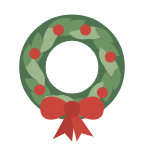
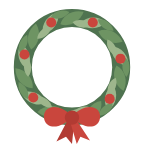
Holy-day art behind the date, simpler profile, clearer study invitations
- Calendar: the Christmas wreath now rings the date; other holy-day drawings
  sit softly behind the number instead of above it.
- Profile: shows what the person told us (name, tradition, language, Bible,
  location) with one Edit button. My calendar and My testimonies move to the
  Your space menu; the duplicated links are gone.
- Bible study: "A small response", "In everyday life" and "A question to
  carry" are small invitation cards, distinct from the explanation text.

Claude-Session: https://claude.ai/code/session_01C4JP6D8xy5aA4aRoq7rax6

diff --git a/mobile/src/app/profile.tsx b/mobile/src/app/profile.tsx
@@ -1,9 +1,9 @@
-import { friendCopy } from "../lib/friends-copy";
-import { AccountMenuRow } from "../components/AccountMenuContent";
+import { avatarColor, initial } from "../lib/people-theme";
+import { q } from "../lib/quiet-copy";
 import Disclosure from "../components/Disclosure";
 import { useInterfaceCopy } from "../lib/use-interface-copy";
 import { useEffect, useState } from "react";
-import { Platform } from "react-native";
+import { Platform, StyleSheet, Text, View } from "react-native";
 import { router } from "expo-router";
 import * as Sharing from "expo-sharing";
 import {
@@ -16,11 +16,13 @@ import {
   Field,
   Notice,
   External,
+  colors,
+  serif,
 } from "../components/quiet-ui";
 import SignInForm from "../components/SignInForm";
 import { useQuiet } from "../lib/quiet-state";
 import { useApp } from "../lib/state";
-import { copy } from "../lib/content";
+import { copy, editionsFor, languages } from "../lib/content";
 import { label } from "../lib/labels";
 import { backend, requireUser, requireBackend } from "../lib/backend";
 import * as storage from "../lib/storage";
@@ -89,35 +91,62 @@ export default function Profile() {
     if (error) throw error;
     setNotice(l("synced"));
   }
+  // What the person told us when they first arrived, and nothing else.
+  const place = [profile.city, profile.region].filter(Boolean).join(", ");
+  const faith = profile.faithChoice;
+  const facts: [string, string][] = [
+    [
+      tr("Tradition"),
+      faith === "catholic" || faith === "protestant" || faith === "orthodox"
+        ? t(faith)
+        : faith === "exploring"
+          ? q(profile.language, "exploring")
+          : "",
+    ],
+    [tr("Your language"), languages[profile.language]],
+    [
+      tr("Your Bible"),
+      editionsFor(profile).find((e) => e.id === profile.edition)?.name ?? "",
+    ],
+    [tr("Location"), place],
+    ...(profile.email
+      ? [[t("pEmail"), profile.email] as [string, string]]
+      : []),
+  ];
   return (
     <Screen back>
       <Heading>{tr("Profile")}</Heading>
       <Notice text={notice} />
-      <AccountMenuRow
-        title={tr("Edit profile and preferences")}
-        route="/preferences"
-        icon="create-outline"
-      />
-      <AccountMenuRow
-        title={tr("My testimonies")}
-        route="/testimonies"
-        icon="chatbubble-outline"
-      />
-      <AccountMenuRow
-        title={tr("Pay it forward")}
-        route="/giving"
-        icon="heart-outline"
-      />
-      <AccountMenuRow
-        title={tr("My calendar")}
-        route="/my-calendar"
-        icon="calendar-outline"
-      />
-      <AccountMenuRow
-        title={friendCopy(profile.language, "Your people")}
-        route="/friends"
-        icon="people-outline"
-      />
+      <Card>
+        <View style={s.who}>
+          <View
+            accessible={false}
+            style={[
+              s.avatar,
+              { backgroundColor: avatarColor(profile.name || "·") },
+            ]}
+          >
+            <Text style={s.initial}>{initial(profile.name)}</Text>
+          </View>
+          <View style={{ flex: 1, gap: 3 }}>
+            <Text style={s.name}>{profile.name.trim() || tr("Friend")}</Text>
+            {!!place && <Text style={s.place}>{place}</Text>}
+          </View>
+        </View>
+        <View style={s.facts}>
+          {facts.map(([title, value]) => (
+            <View key={title} style={s.fact}>
+              <Text style={s.factTitle}>{title}</Text>
+              <Text style={s.factValue}>{value || tr("Not added yet")}</Text>
+            </View>
+          ))}
+        </View>
+        <Button
+          secondary
+          title={tr("Edit")}
+          onPress={() => router.push("/preferences")}
+        />
+      </Card>
       <Disclosure title={l("account")} initiallyOpen={!signedIn}>
         <Card>
           <Subheading>{signedIn ? l("welcomeBack") : l("signIn")}</Subheading>
@@ -303,3 +332,34 @@ export default function Profile() {
     </Screen>
   );
 }
+const s = StyleSheet.create({
+  who: { flexDirection: "row", alignItems: "center", gap: 14 },
+  avatar: {
+    width: 56,
+    height: 56,
+    borderRadius: 28,
+    alignItems: "center",
+    justifyContent: "center",
+  },
+  initial: { fontFamily: serif, fontSize: 24, color: colors.ink },
+  name: { fontFamily: serif, fontSize: 24, lineHeight: 30, color: colors.ink },
+  place: { fontSize: 14, lineHeight: 20, color: colors.cardMuted },
+  facts: { borderTopWidth: 1, borderTopColor: colors.line },
+  fact: {
+    flexDirection: "row",
+    justifyContent: "space-between",
+    alignItems: "baseline",
+    gap: 16,
+    paddingVertical: 11,
+    borderBottomWidth: 1,
+    borderBottomColor: colors.line,
+  },
+  factTitle: { fontSize: 14, lineHeight: 20, color: colors.cardMuted },
+  factValue: {
+    flex: 1,
+    textAlign: "right",
+    fontSize: 15,
+    lineHeight: 21,
+    color: colors.ink,
+  },
+});

diff --git a/mobile/src/app/verse/[id].tsx b/mobile/src/app/verse/[id].tsx
@@ -63,6 +63,29 @@ function Section({
     </View>
   );
 }
+// A suggestion for the reader, not part of the explanation: a small card with
+// its own label, so it reads as "your turn" rather than more commentary.
+function Invitation({
+  title,
+  children,
+}: {
+  title: string;
+  children: React.ReactNode;
+}) {
+  return (
+    <View style={s.invitation}>
+      <View style={s.invitationHead}>
+        <Ionicons name="leaf-outline" size={15} color={colors.goldInk} />
+        <Text accessibilityRole="header" style={s.invitationLabel}>
+          {title}
+        </Text>
+      </View>
+      <Text selectable style={s.invitationText}>
+        {children}
+      </Text>
+    </View>
+  );
+}
 export default function VerseStudy() {
   // "journal" is the theme verse reference a saved journal entry passes along.
   const { id, journal } = useLocalSearchParams<{
@@ -382,12 +405,12 @@ function StudyPage({ id, journal }: { id: string; journal?: string }) {
                       {verse.context[lang] ?? verse.context.en}
                     </Paragraph>
                   )}
-                  <Section title={tr("A small response")} tint>
+                  <Invitation title={tr("A small response")}>
                     {explanation?.today ??
                       tr(
                         "Choose one word or image that stays with you. Give it a little attention before deciding what it means for your own life.",
                       )}
-                  </Section>
+                  </Invitation>
                 </>
               ) : layer === "deeper" ? (
                 <>
@@ -406,12 +429,12 @@ function StudyPage({ id, journal }: { id: string; journal?: string }) {
                         "Look for repeated words, contrasts and changes of speaker. Read a difficult line in the flow of the whole passage before deciding what it means. These are reading questions, not a completed commentary on this verse.",
                       )}
                   </Section>
-                  <Section title={tr("In everyday life")}>
+                  <Invitation title={tr("In everyday life")}>
                     {explanation?.today ??
                       tr(
                         "What response might fit the passage as a whole? Notice the difference between what the text says and a personal association it brings to mind. You can hold a question without needing an immediate answer.",
                       )}
-                  </Section>
+                  </Invitation>
                 </>
               ) : layer === "theology" ? (
                 <>
@@ -430,9 +453,9 @@ function StudyPage({ id, journal }: { id: string; journal?: string }) {
                     .map((paragraph, i) => (
                       <Paragraph key={i}>{paragraph}</Paragraph>
                     ))}
-                  <Section title={tr("A question to carry")} tint>
+                  <Invitation title={tr("A question to carry")}>
                     {question}
-                  </Section>
+                  </Invitation>
                 </>
               ) : null}
               <Body small>
@@ -661,4 +684,25 @@ const s = StyleSheet.create({
   },
   prose: { fontFamily: serif, fontSize: 20, lineHeight: 33, color: colors.ink },
   callout: { padding: 22, borderRadius: 21, backgroundColor: colors.pale },
+  invitation: {
+    gap: 8,
+    paddingVertical: 14,
+    paddingHorizontal: 16,
+    borderRadius: 16,
+    backgroundColor: colors.white,
+    borderWidth: 1,
+    borderColor: "#B28A3E66",
+    borderLeftWidth: 3,
+    borderLeftColor: colors.gold,
+  },
+  invitationHead: { flexDirection: "row", alignItems: "center", gap: 7 },
+  invitationLabel: {
+    fontSize: 12,
+    lineHeight: 16,
+    fontWeight: "700",
+    letterSpacing: 1.1,
+    textTransform: "uppercase",
+    color: colors.goldInk,
+  },
+  invitationText: { fontSize: 16, lineHeight: 24, color: colors.ink },
 });

diff --git a/mobile/src/components/GatheringCalendar.tsx b/mobile/src/components/GatheringCalendar.tsx
@@ -19,19 +19,26 @@ function HolyDayMark({
   id,
   size,
   opacity = 1,
+  soft = false,
 }: {
   id: HolyDayId;
   size: number;
   opacity?: number;
+  // Slightly out of focus, for sitting behind a date.
+  soft?: boolean;
 }) {
   return (
     <Image
       source={holyDayImages[holyDayArt[id]]}
       accessible={false}
+      blurRadius={soft ? 1 : 0}
       style={{ width: size, height: size, opacity }}
     />
   );
 }
+// A ring leaves its middle open, so the date reads clearly inside it at full
+// strength. Every other drawing sits faded behind the date.
+const isRing = (id: HolyDayId) => holyDayArt[id] === "wreath";
 export default function GatheringCalendar({
   gatherings,
   selected,
@@ -138,8 +145,7 @@ export default function GatheringCalendar({
                   minHeight: 48,
                   alignItems: "center",
                   justifyContent: "center",
-                  gap: 1,
-                  paddingVertical: 2,
+                  gap: 2,
                   borderRadius: 14,
                   backgroundColor: on
                     ? colors.green
@@ -150,32 +156,46 @@ export default function GatheringCalendar({
                   borderColor: colors.gold,
                 }}
               >
-                {/* Every cell keeps this slot, so the numbers stay in line. */}
+                {/* The date, with the day's drawing behind it. */}
                 <View
-                  accessible={false}
-                  style={{ height: 25, justifyContent: "center" }}
-                >
-                  {!!feasts.length && (
-                    <HolyDayMark
-                      id={feasts[0].id}
-                      size={25}
-                      opacity={past && !on ? 0.6 : 1}
-                    />
-                  )}
-                </View>
-                <Text
                   style={{
-                    fontSize: 15,
-                    fontWeight: isToday ? "700" : "500",
-                    color: on
-                      ? colors.white
-                      : past && !has
-                        ? colors.muted
-                        : colors.ink,
+                    width: 34,
+                    height: 30,
+                    alignItems: "center",
+                    justifyContent: "center",
                   }}
                 >
-                  {day}
-                </Text>
+                  {!!feasts.length && (
+                    <View
+                      accessible={false}
+                      pointerEvents="none"
+                      style={{ position: "absolute", top: -9, left: -7 }}
+                    >
+                      <HolyDayMark
+                        id={feasts[0].id}
+                        size={48}
+                        soft={!isRing(feasts[0].id)}
+                        opacity={
+                          (isRing(feasts[0].id) ? 1 : 0.42) *
+                          (past && !on ? 0.6 : 1)
+                        }
+                      />
+                    </View>
+                  )}
+                  <Text
+                    style={{
+                      fontSize: 15,
+                      fontWeight: isToday || feasts.length ? "700" : "500",
+                      color: on
+                        ? colors.white
+                        : past && !has && !feasts.length
+                          ? colors.muted
+                          : colors.ink,
+                    }}
+                  >
+                    {day}
+                  </Text>
+                </View>
                 <View
                   accessible={false}
                   style={{

diff --git a/mobile/src/components/AccountMenuContent.tsx b/mobile/src/components/AccountMenuContent.tsx
@@ -84,6 +84,18 @@ export default function AccountMenuContent({
         onNavigate={onNavigate}
       />
       <AccountMenuRow
+        title={tr("My calendar")}
+        icon="calendar-outline"
+        route="/my-calendar"
+        onNavigate={onNavigate}
+      />
+      <AccountMenuRow
+        title={tr("My testimonies")}
+        icon="chatbubble-outline"
+        route="/testimonies"
+        onNavigate={onNavigate}
+      />
+      <AccountMenuRow
         title={tr("Prayer requests")}
         icon="heart-outline"
         route="/prayers"
